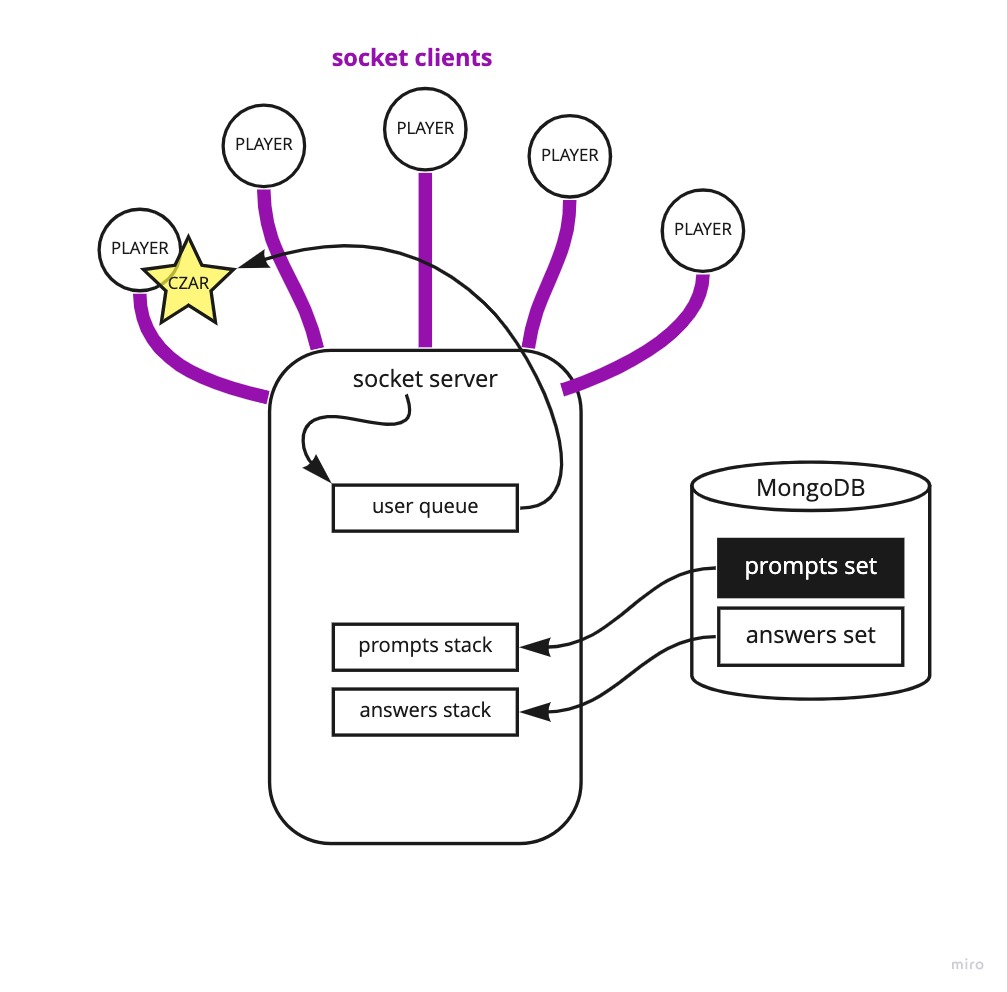
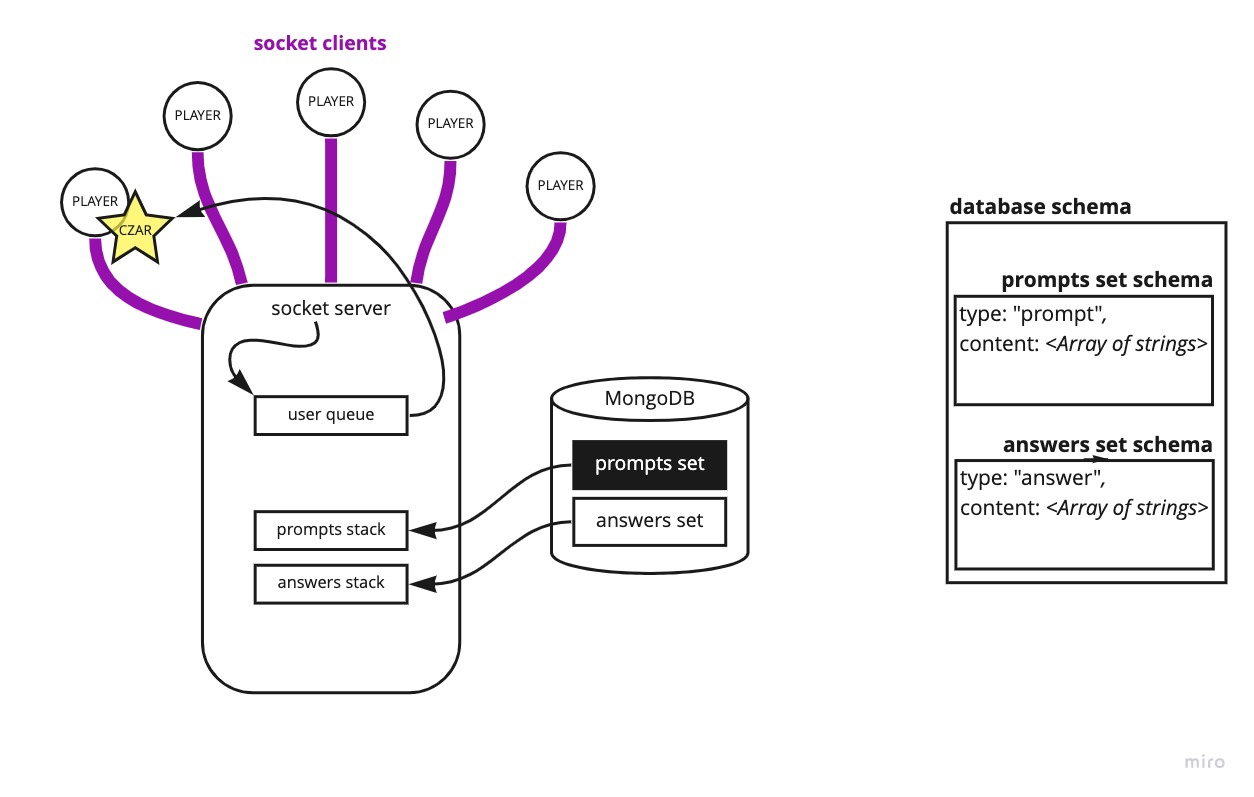
Updates UML image with database schema

diff --git a/README.md b/README.md
@@ -19,3 +19,7 @@ The rules of the game are fairly straightforward:
 * The goal of everyone else (all but the 'card czar' - AKA the one holding the black card) is to find a white card they think is the most humorous to fill in the blank of the black card.
 * Once all white cards have been submitted to the card czar, the card czar then chooses which white card they think is the most humorous in place of the blank.
 * The person who submitted said white card gets a point, and then the next round starts and the next person in the line becomes the new card czar.
+
+### Data Flow UML
+
+![Data Flow Diagram](./UML.jpg)
